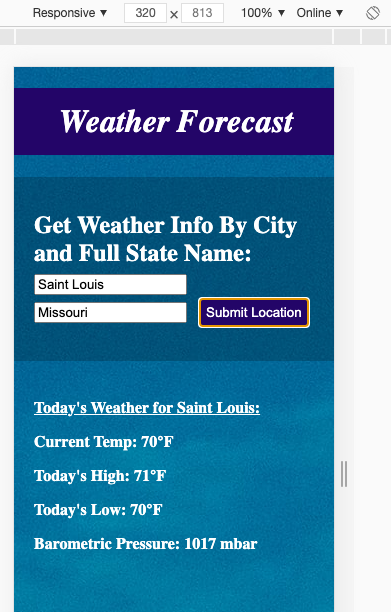
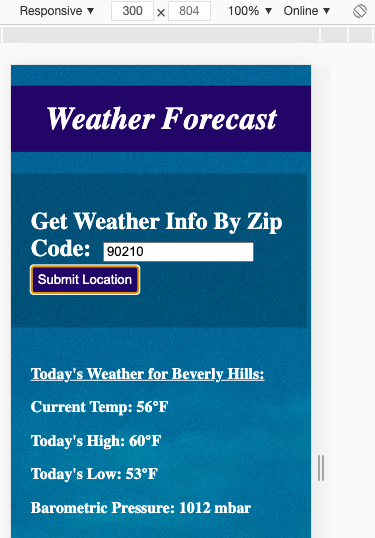
zip code version

Changed region(s): [[0.0293, 0.0892, 0.9093, 1.0], [0.0, 0.0, 1.0, 0.0595]]

diff --git a/week-5/day-3/weather.js b/week-5/day-3/weather.js
@@ -1,5 +1,7 @@
-const cityTextBox = document.getElementById("cityTextBox")
-const stateTextBox = document.getElementById("stateTextBox")
+// Not using city/state version right now
+// const cityTextBox = document.getElementById("cityTextBox")
+// const stateTextBox = document.getElementById("stateTextBox")
+const zipTextBox = document.getElementById("zipTextBox")
 // Not currently using geolocation search that uses this button
 // const btnGetWeather = document.getElementById("btnGetWeather")
 const btnSubmittedLocation = document.getElementById("btnSubmittedLocation")
@@ -25,14 +27,23 @@ function displayWeather(result) {
     weatherContainer.innerHTML = weather
 }
 
-
 btnSubmittedLocation.addEventListener("click", function() {
-    const city = cityTextBox.value
-    const state = stateTextBox.value
-    fetch(`http://api.openweathermap.org/data/2.5/weather?q=${city},${state}&appid=e9b850f32e29330be12e3698eeed5a05`)
+    const zip = zipTextBox.value
+    fetch(`https://api.openweathermap.org/data/2.5/weather?zip=${zip}&appid=e9b850f32e29330be12e3698eeed5a05`)
     .then(response => {
         return response.json()
     }).then(result => {
         displayWeather(result)        
     })
   })
+
+// btnSubmittedLocation.addEventListener("click", function() {
+//     const city = cityTextBox.value
+//     const state = stateTextBox.value
+//     fetch(`http://api.openweathermap.org/data/2.5/weather?q=${city},${state}&appid=e9b850f32e29330be12e3698eeed5a05`)
+//     .then(response => {
+//         return response.json()
+//     }).then(result => {
+//         displayWeather(result)        
+//     })
+//   })

diff --git a/week-5/day-3/index.html b/week-5/day-3/index.html
@@ -18,10 +18,11 @@
   <div id="actionDIV">
     <!-- Not currently using geolocation search -->
     <!-- <p>Get Weather Info By Browser Location:&nbsp;&nbsp; <button id="btnGetWeather" class="button">Get Weather</button></p> -->
-    <p>Get Weather Info By City and Full State Name: &nbsp;&nbsp;&nbsp;&nbsp;
+    <p>Get Weather Info By Zip Code:&nbsp; <input type="text" id="zipTextBox" placeholder="Zip Code" />&nbsp;<button id="btnSubmittedLocation" class="button">Submit Location</button></p>
+    <!-- <p>Get Weather Info By City and Full State Name: &nbsp;&nbsp;&nbsp;&nbsp;
     <input type="text" id="cityTextBox" placeholder="City" />
     <input type="text" id="stateTextBox" placeholder="State" />&nbsp;
-    <button id="btnSubmittedLocation" class="button">Submit Location</button></p>
+    <button id="btnSubmittedLocation" class="button">Submit Location</button></p> -->
 
       
   </div>
